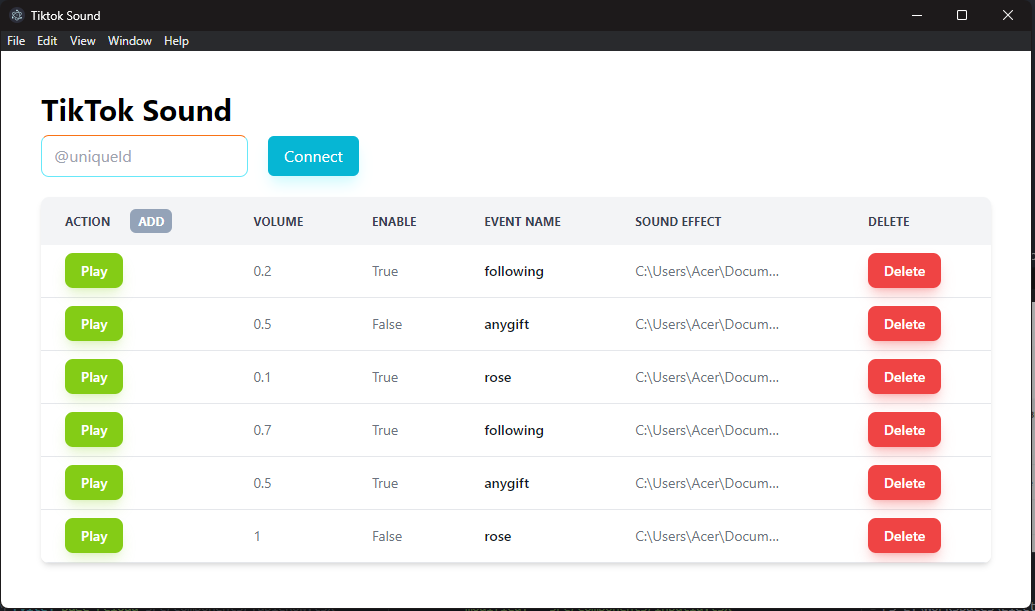
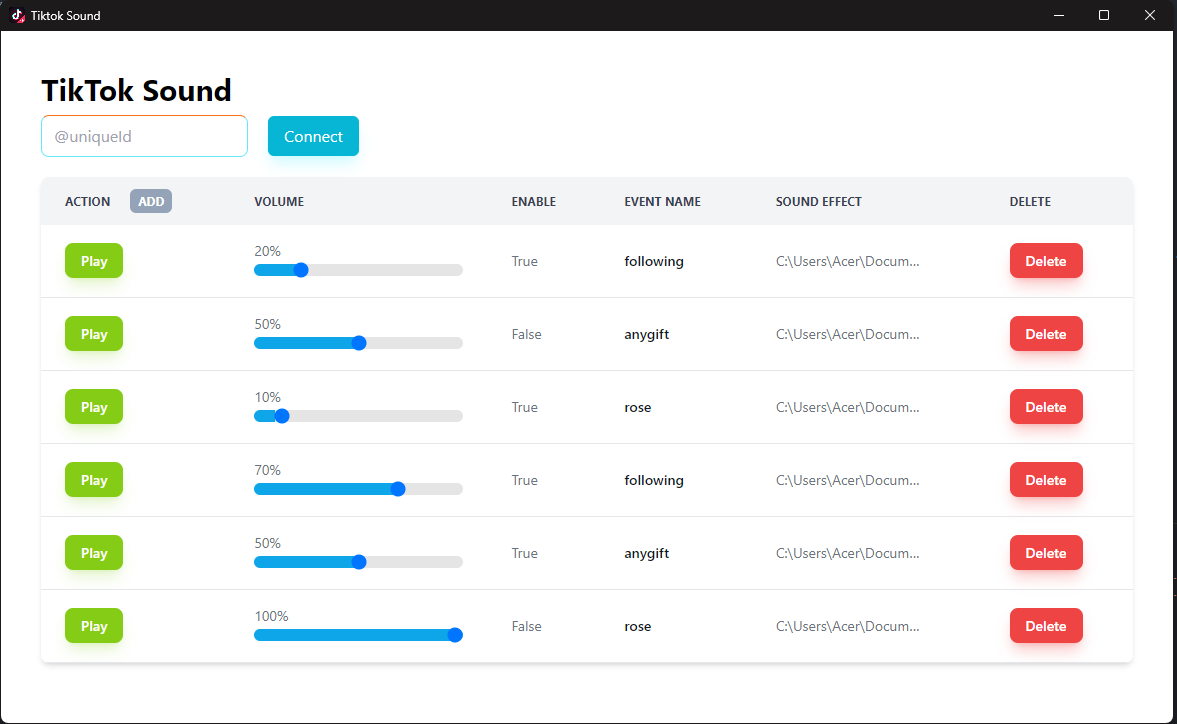
update README.md

diff --git a/README.md b/README.md
@@ -8,7 +8,6 @@ Todo List
 - Connect to live
 - Change Port Feature
 - Customize Overlay Popups
-- Control sound volume
 - Enable / Disable Sound
 - Change event's sound
 - Change event is existed
@@ -17,6 +16,7 @@ Todo List
 Done List
 - ✅ Create a new event
 - ✅ Delete a existing event
+- ✅ Control sound volume
 
 Example Application Interfaces on lastest update
 ![Alt text](docs/image.png)
